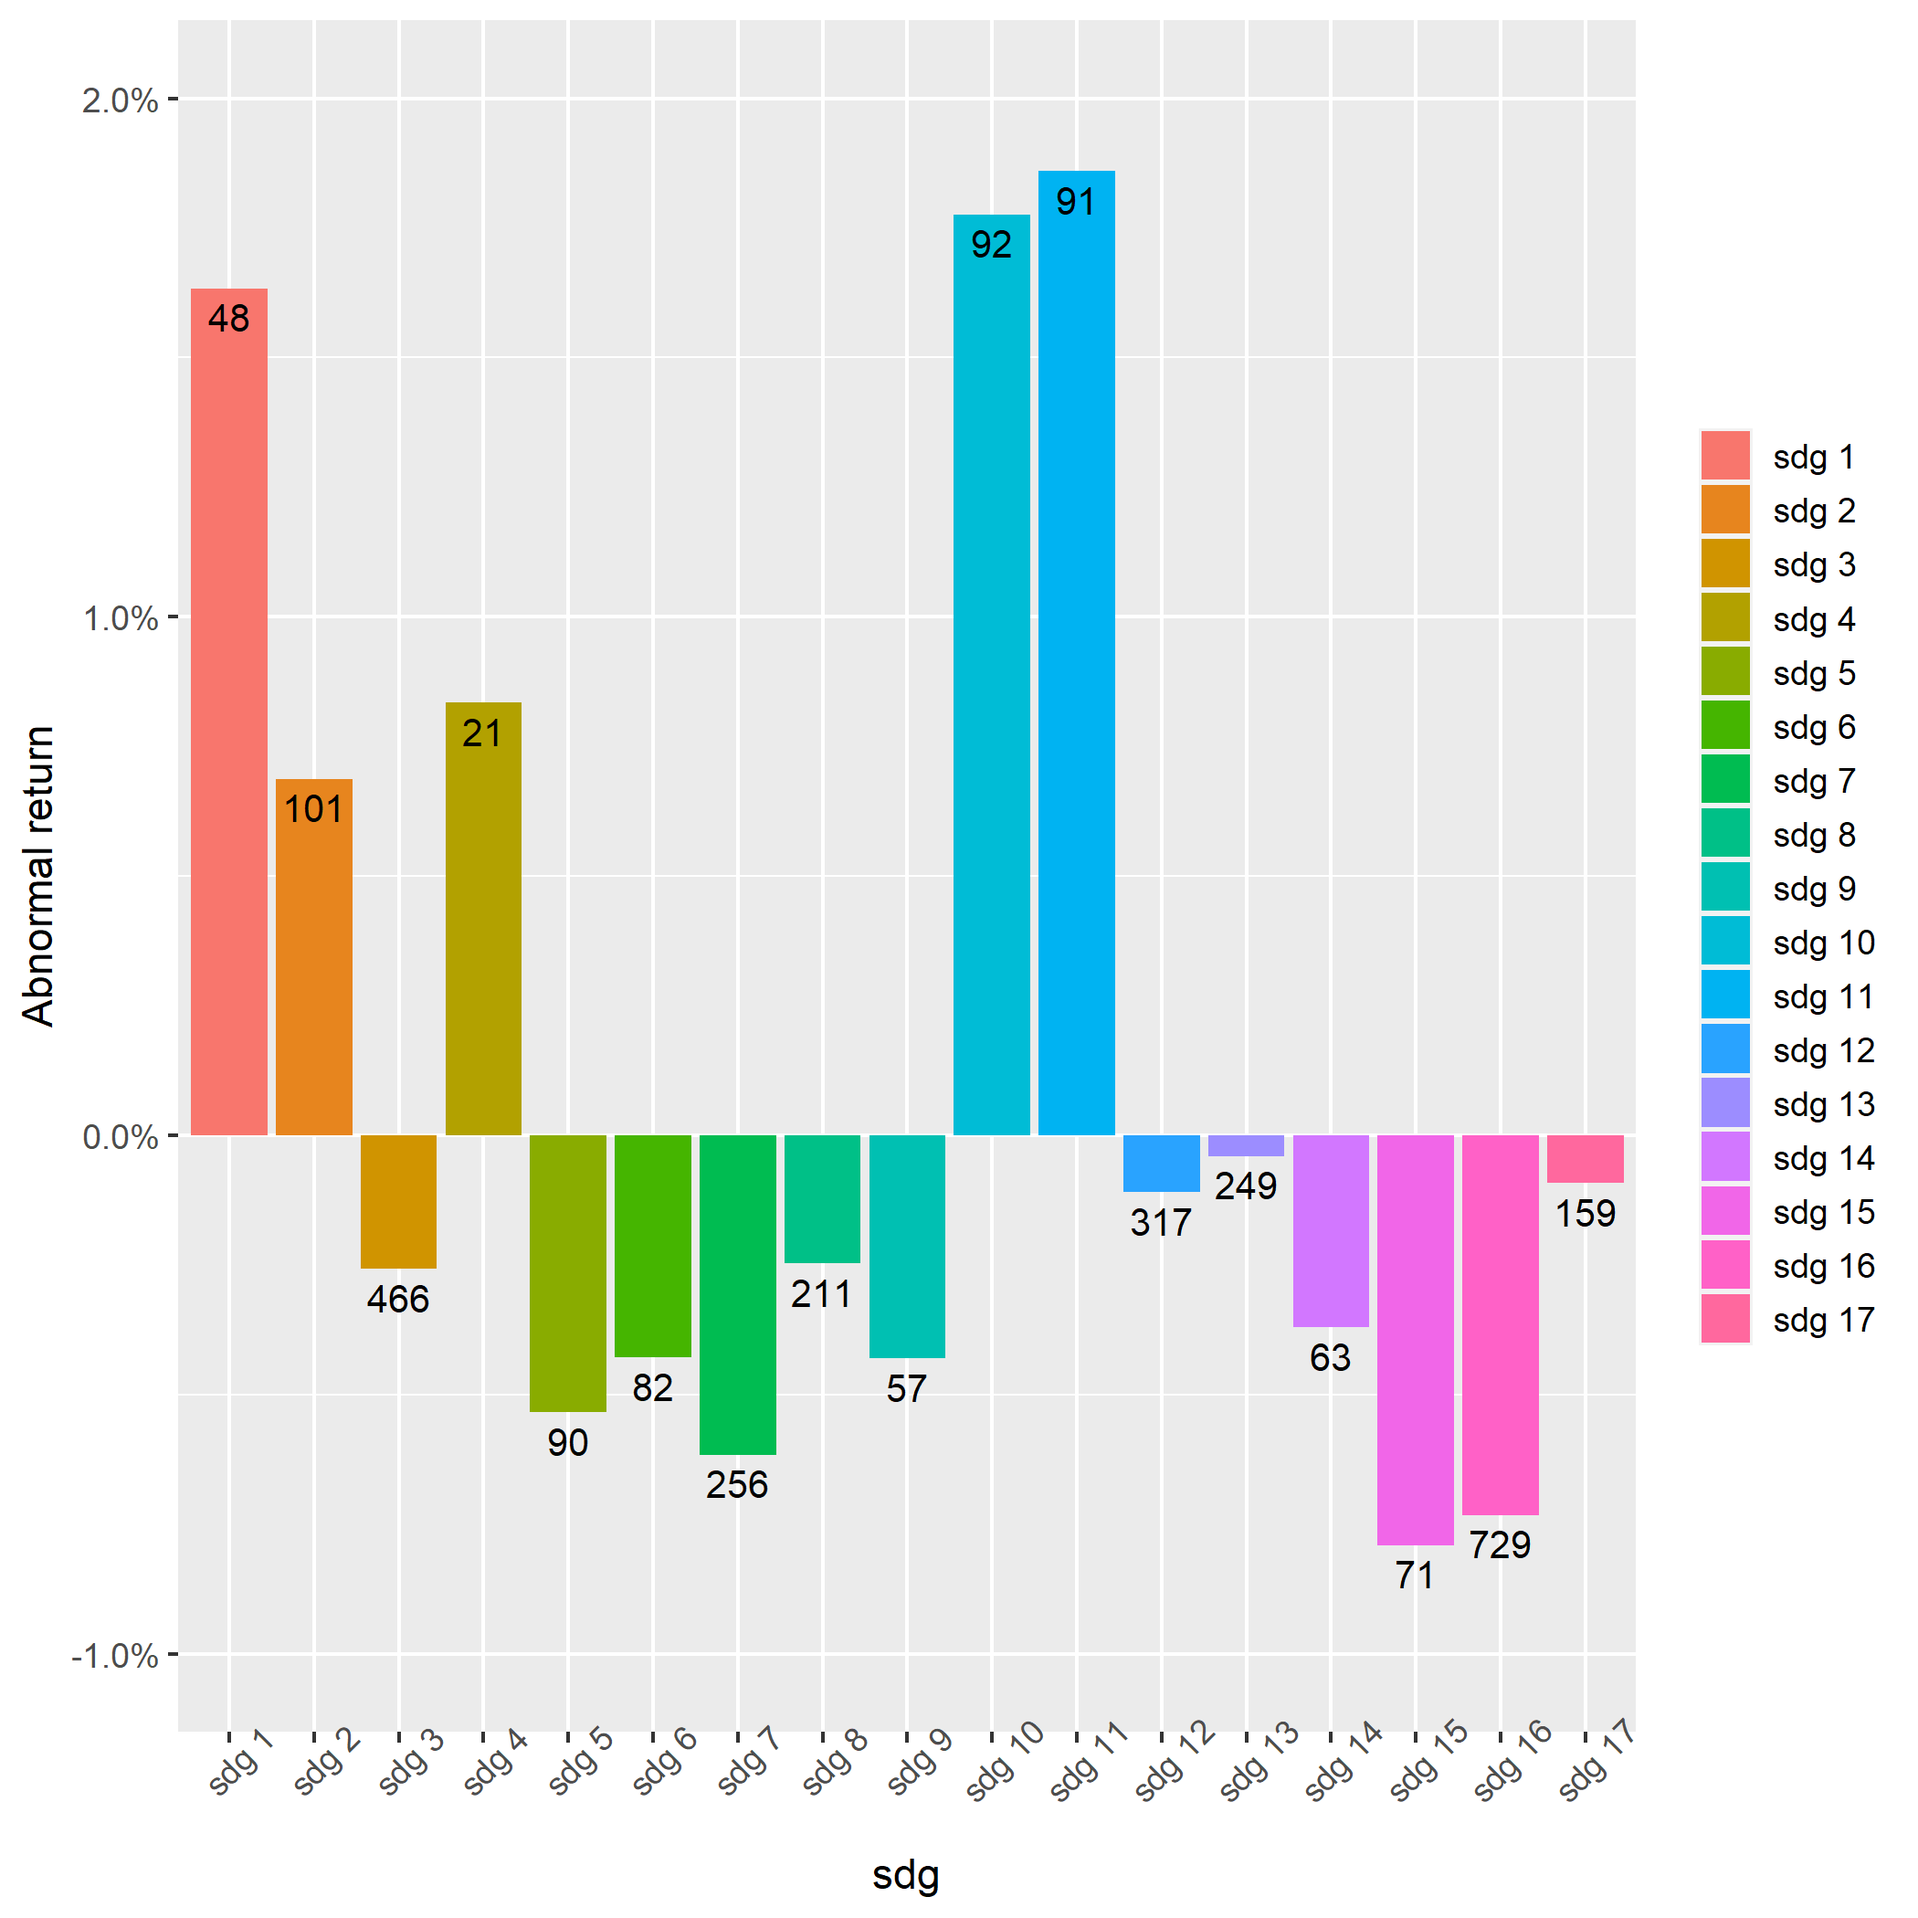
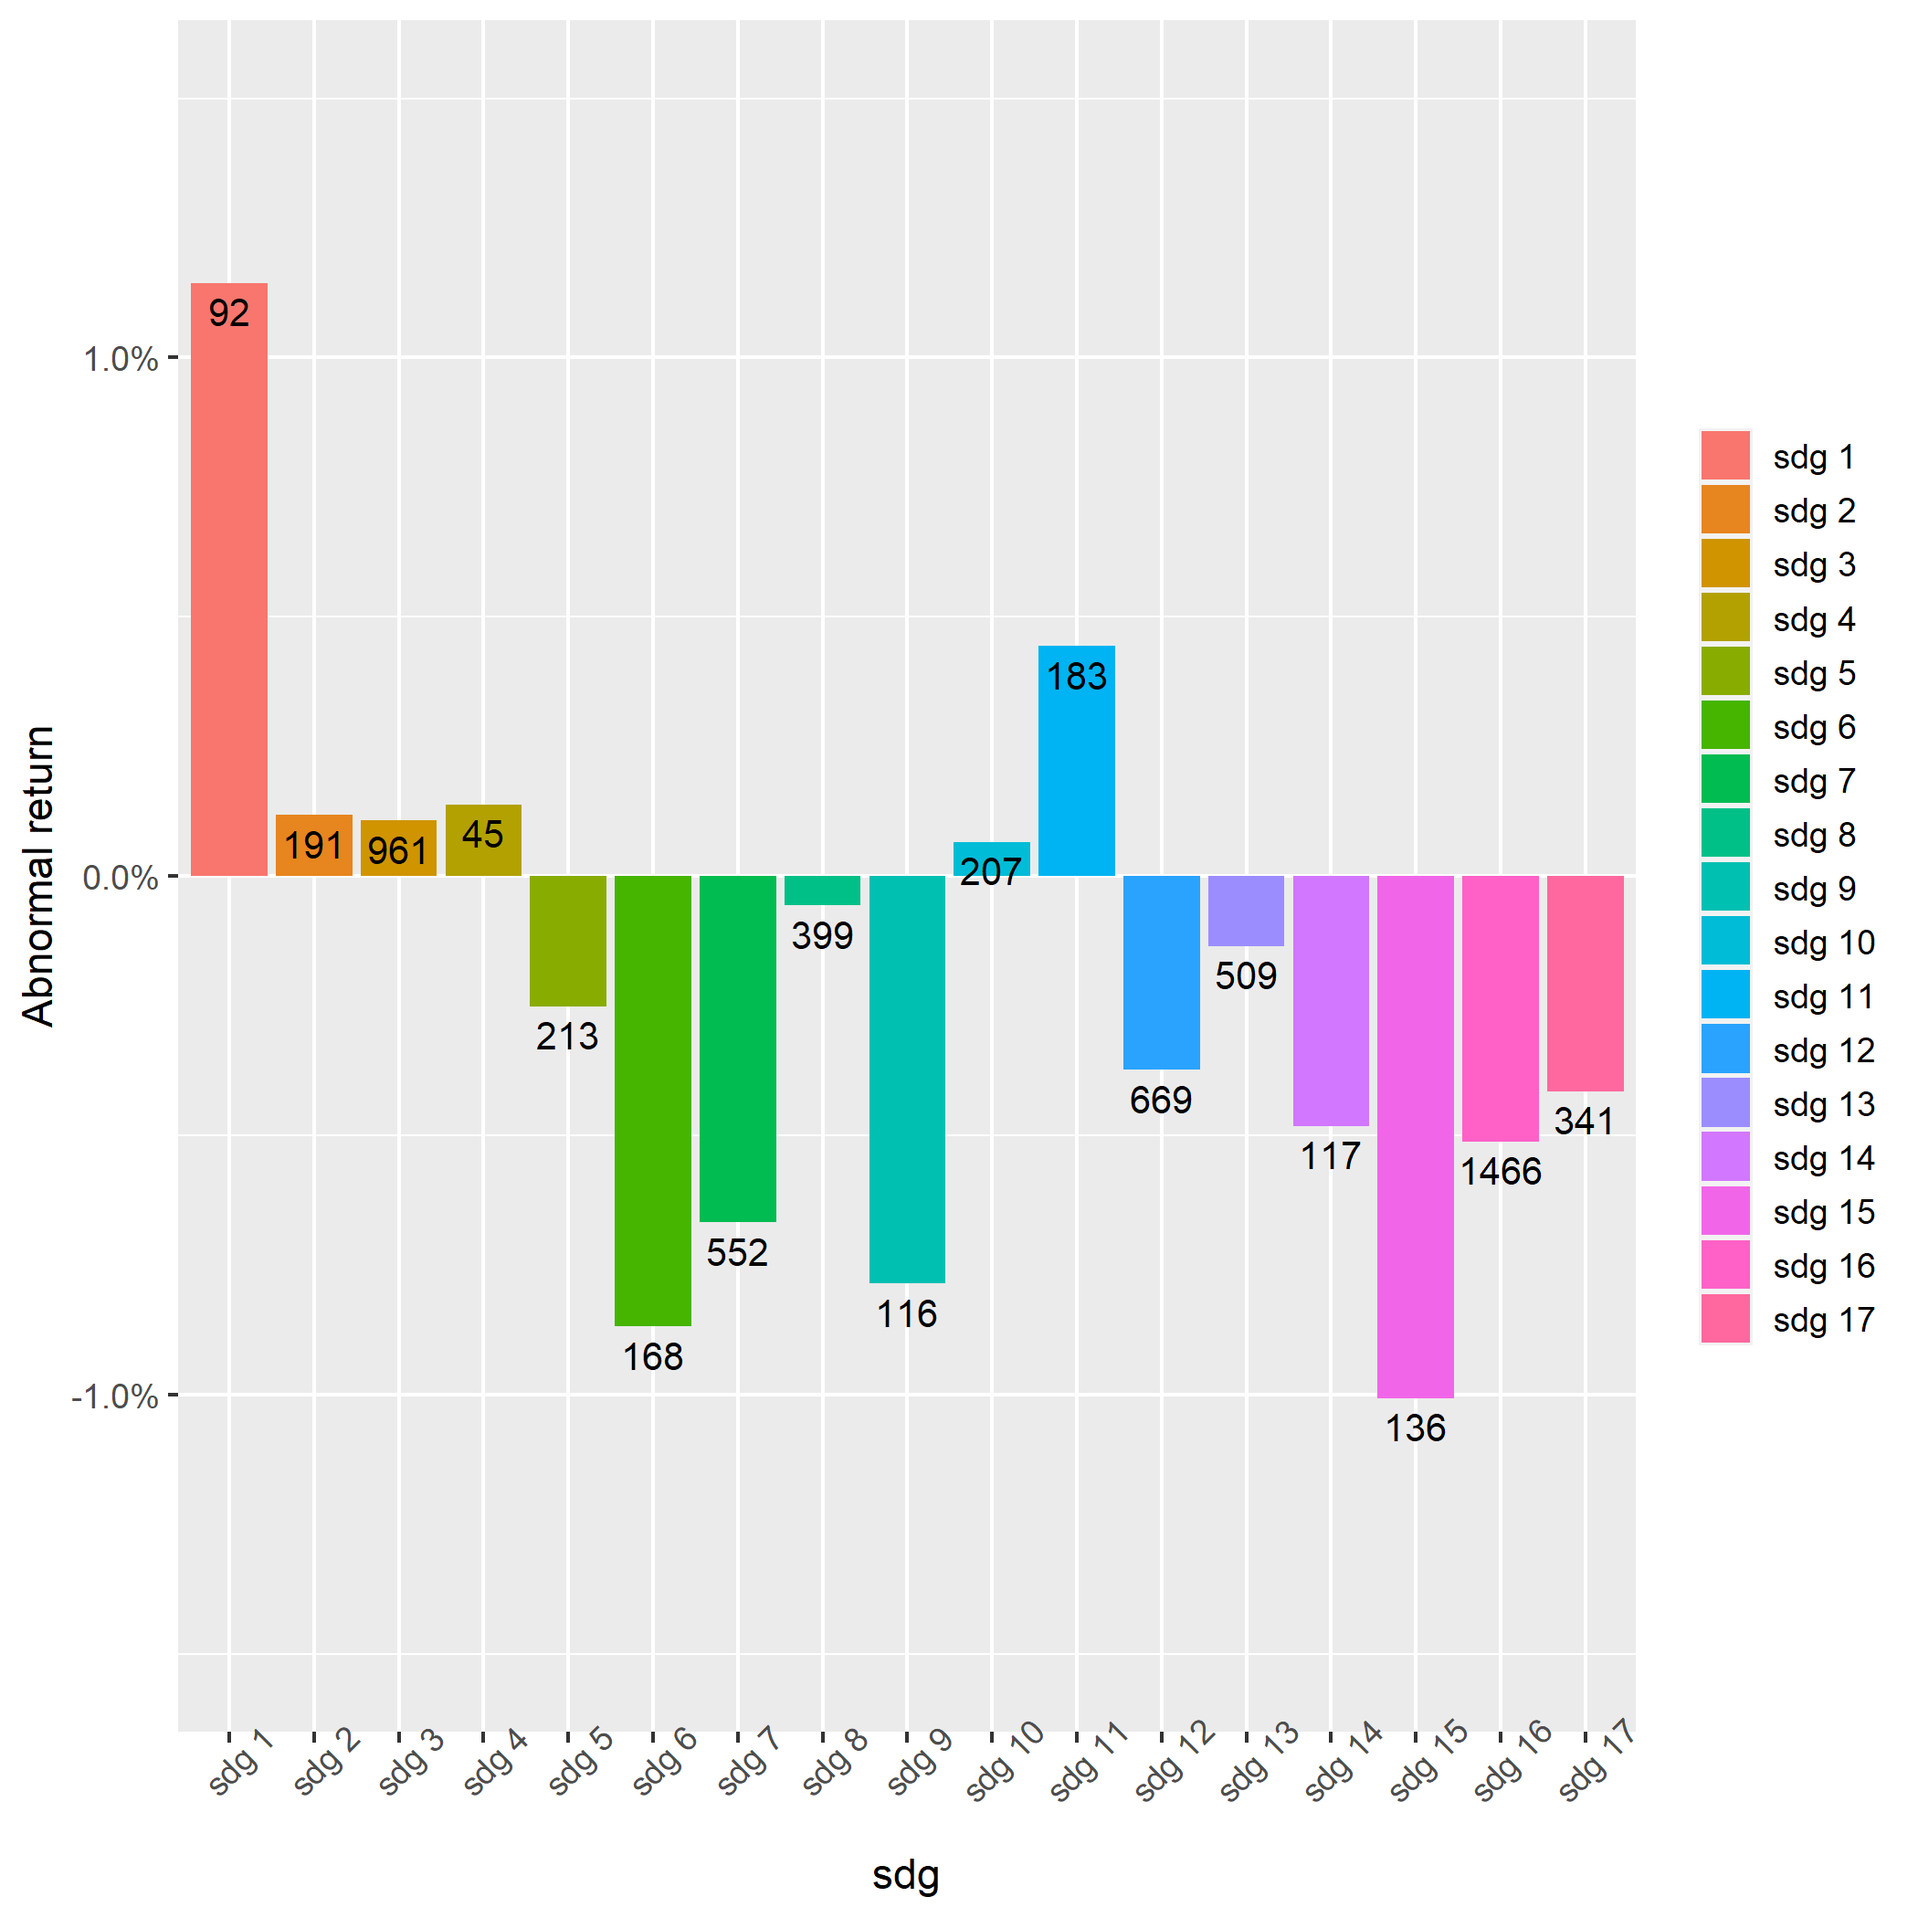
Tables and barplot

diff --git a/Projekt/1.Figures analysis/test.tex b/Projekt/1.Figures analysis/test.tex
@@ -1,5 +1,5 @@
 % latex table generated in R 4.2.2 by xtable 1.8-4 package
-% Thu Mar  9 16:53:50 2023
+% Sat Mar 11 14:44:17 2023
 \begin{table}[ht]
 \centering
 \begin{tabular}{lrrrr}
@@ -7,27 +7,27 @@
    & \multicolumn{2}{c}{Positive news} & \multicolumn{2}{c}{Negative news}  \\
   Time & AAR & CAAR & AAR & CAAR \\
  \hline
--10 & -0.0091 & -0.0091 & -0.0539 & -0.0539 \\ 
-  -9 & -0.0462 & -0.0553 & 0.0196 & -0.0343 \\ 
-  -8 & 0.0026 & -0.0528 & 0.0267 & -0.0077 \\ 
-  -7 & 0.0098 & -0.0429 & -0.0042 & -0.0118 \\ 
-  -6 & 0.0680 & 0.0251 & -0.0082 & -0.0200 \\ 
-  -5 & 0.0032 & 0.0282 & 0.0052 & -0.0148 \\ 
-  -4 & 0.1060 & 0.1342 & -0.0910 & -0.1059 \\ 
-  -3 & 0.0574 & 0.1916 & -0.0930 & -0.1989 \\ 
-  -2 & 0.0313 & 0.2229 & -0.2364 & -0.4353 \\ 
-  -1 & -0.0024 & 0.2205 & -0.2184 & -0.6536 \\ 
-  0 & -0.0242 & 0.1963 & -0.3604 & -1.0141 \\ 
-  +1 & -0.0046 & 0.1918 & -0.0833 & -1.0974 \\ 
-  +2 & -0.0646 & 0.1272 & -0.0232 & -1.1207 \\ 
-  +3 & -0.0474 & 0.0797 & 0.1148 & -1.0059 \\ 
-  +4 & -0.0599 & 0.0198 & 0.0313 & -0.9745 \\ 
-  +5 & -0.0275 & -0.0077 & -0.0087 & -0.9833 \\ 
-  +6 & -0.0422 & -0.0499 & 0.0385 & -0.9448 \\ 
-  +7 & -0.0712 & -0.1210 & 0.0200 & -0.9248 \\ 
-  +8 & -0.0098 & -0.1308 & 0.0261 & -0.8987 \\ 
-  +9 & -0.0482 & -0.1790 & -0.0191 & -0.9178 \\ 
-  +10 & -0.0384 & -0.2175 & 0.0185 & -0.8993 \\ 
+-10 & -0.0368 & -0.0368 & -0.0539 & -0.0539 \\ 
+  -9 & -0.0465 & -0.0833 & 0.0196 & -0.0343 \\ 
+  -8 & 0.0454 & -0.0380 & 0.0267 & -0.0077 \\ 
+  -7 & 0.0101 & -0.0279 & -0.0042 & -0.0118 \\ 
+  -6 & 0.0368 & 0.0089 & -0.0082 & -0.0200 \\ 
+  -5 & -0.0037 & 0.0052 & 0.0052 & -0.0148 \\ 
+  -4 & 0.0300 & 0.0351 & -0.0910 & -0.1059 \\ 
+  -3 & 0.0085 & 0.0437 & -0.0930 & -0.1989 \\ 
+  -2 & -0.0204 & 0.0233 & -0.2364 & -0.4353 \\ 
+  -1 & 0.0113 & 0.0345 & -0.2184 & -0.6536 \\ 
+  0 & 0.0735 & 0.1081 & -0.3604 & -1.0141 \\ 
+  +1 & -0.0296 & 0.0785 & -0.0833 & -1.0974 \\ 
+  +2 & -0.0496 & 0.0288 & -0.0232 & -1.1207 \\ 
+  +3 & -0.0440 & -0.0151 & 0.1148 & -1.0059 \\ 
+  +4 & -0.0174 & -0.0325 & 0.0313 & -0.9745 \\ 
+  +5 & -0.0002 & -0.0328 & -0.0087 & -0.9833 \\ 
+  +6 & -0.0466 & -0.0793 & 0.0385 & -0.9448 \\ 
+  +7 & -0.0492 & -0.1285 & 0.0200 & -0.9248 \\ 
+  +8 & 0.0000 & -0.1285 & 0.0261 & -0.8987 \\ 
+  +9 & -0.0127 & -0.1412 & -0.0191 & -0.9178 \\ 
+  +10 & -0.0241 & -0.1654 & 0.0185 & -0.8993 \\ 
    \hline
 \end{tabular}
 \caption{AAR and CAAR over event window (in percentage)} 
